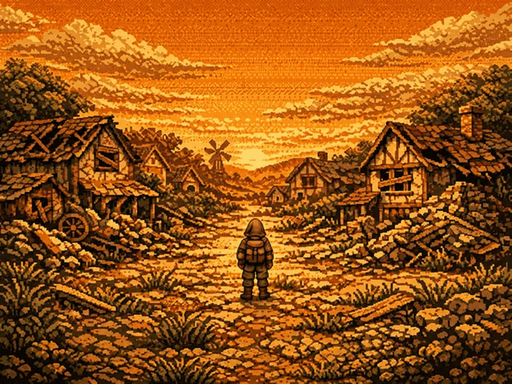
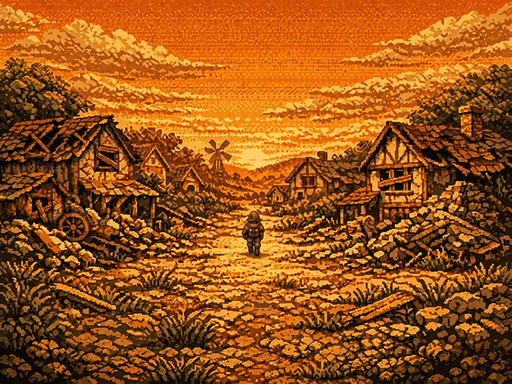
Tune intro camera motion and restore the final scene fade

diff --git a/src/art_thumbs.js b/src/art_thumbs.js
@@ -115,7 +115,7 @@ const ART_THUMBS = {
[8 lines of base64/hex data omitted]
@@ -465,7 +465,7 @@ const ART_TONES = {
   story_wake_frame2: '#663818',
   story_white_dragon_tower: '#846c56',
   story_wrecks: '#985515',
-  story_wrecks_frame2: '#985515',
+  story_wrecks_frame2: '#995415',
   street_bandit: '#b06224',
   street_barricade: '#995022',
   street_burned: '#97531d',
@@ -1092,8 +1092,8 @@ const ART_CUTS = {
   ],
   story_wrecks_frame2: [
[5 lines of base64/hex data omitted]
   ],
   street_bandit: [
[1 lines of base64/hex data omitted]

diff --git a/index.html b/index.html
@@ -1046,28 +1046,27 @@
       position: absolute; inset: 0; opacity: 0;
       animation: story-crossfade 2.4s ease-in-out 750ms forwards;
     }
-    /* Four registered paintings move throughout the camera push. Lower
-       layers reset only after the next painting fully covers them. */
+    /* Progress once through tighter crops. Keep the final painting so a
+       return to the wide first frame cannot undo the camera's push. */
     #story .nightmare-frame {
       position: absolute; inset: 0; opacity: 0;
-      animation: nightmare-frame-two 12s ease-in-out 750ms infinite;
+      transform-origin: 59% 21%;
+      transform: scale(1.05);
+      animation: nightmare-frame-two var(--nightmare-pan-ms, 16s) ease-in-out 750ms both;
     }
-    #story .nightmare-frame:nth-child(3) { animation-name: nightmare-frame-three; }
-    #story .nightmare-frame:nth-child(4) { animation-name: nightmare-frame-four; }
+    #story .nightmare-frame:nth-child(3) { transform: scale(1.10); animation-name: nightmare-frame-three; }
+    #story .nightmare-frame:nth-child(4) { transform: scale(1.15); animation-name: nightmare-frame-four; }
     @keyframes nightmare-frame-two {
       0%, 12.5% { opacity: 0; }
-      25%, 50% { opacity: 1; }
-      50.01%, 100% { opacity: 0; }
+      25%, 100% { opacity: 1; }
     }
     @keyframes nightmare-frame-three {
       0%, 37.5% { opacity: 0; }
-      50%, 75% { opacity: 1; }
-      75.01%, 100% { opacity: 0; }
+      50%, 100% { opacity: 1; }
     }
     @keyframes nightmare-frame-four {
       0%, 62.5% { opacity: 0; }
-      75%, 87.5% { opacity: 1; }
-      100% { opacity: 0; }
+      75%, 100% { opacity: 1; }
     }
     @keyframes story-crossfade {
       from { opacity: 0; }
@@ -1115,11 +1114,11 @@
     }
     @keyframes nightmare-pan {
       from { transform: translate(0, 0) scale(1); }
-      to { transform: translate(0, 5%) scale(2.3); }
+      to { transform: translate(0, 5%) scale(3); }
     }
     #story .wake-camera {
       transform-origin: 50.5% 42.5%;
-      animation: wake-pullback 9s ease-in-out 750ms both;
+      animation: wake-pullback 14s ease-in-out 750ms both;
     }
     /* Reuse the wake paintings for the close pair. The shared camera keeps
        its crop registered while that pair dissolves into the wide pair. */
@@ -1135,7 +1134,7 @@
     }
     @keyframes wake-pullback {
       from { transform: scale(1.75); }
-      to { transform: scale(1); }
+      to { transform: scale(1.25); }
     }
     @media (prefers-reduced-motion: reduce) {
       #story .wake-camera > .story-frames,
@@ -3226,7 +3225,7 @@
   <script src="src/sandbox_art.js?v=ec5360fe"></script>
   <script src="src/testtools.js?v=5767ffd9"></script>
   <script src="src/geo.js?v=c1099b24"></script>
-  <script src="src/art_thumbs.js?v=dfb617d4"></script>
+  <script src="src/art_thumbs.js?v=fad6955c"></script>
   <script src="src/modal_shell.js?v=d88dfa8c"></script>
   <script src="src/scene_geo.js?v=6acf1a1f"></script>
   <script src="src/npc.js?v=a8acecba"></script>

diff --git a/test/node/opening_replay.test.js b/test/node/opening_replay.test.js
@@ -119,8 +119,8 @@ test('opening: four dragon paintings move during the zoom with no late close sho
     'only the first painting describes the dream to screen readers');
   assert.falsy(html.includes('nightmare-close'), 'no separate late close painting');
   const frameRule = html.match(/#story \.nightmare-frame\s*\{([^}]+)\}/)?.[1] || '';
-  assert.truthy(/animation: nightmare-frame-two 12s ease-in-out 750ms infinite/.test(frameRule),
-    'all four paintings cycle before the 16-second push ends, and continue afterward');
+  assert.truthy(/animation: nightmare-frame-two var\(--nightmare-pan-ms, 16s\) ease-in-out 750ms both/.test(frameRule),
+    'painting transitions share the camera duration and hold their final state');
   assert.truthy(html.includes('const STORY_PAN_MS = 16000;'));
   const reduced = html.slice(html.indexOf('@media (prefers-reduced-motion: reduce)', html.indexOf('@keyframes nightmare-pan')));
   assert.truthy(/#story \.nightmare-camera,[^}]*#story \.nightmare-frame:nth-child\(n\),[^}]*animation: none/.test(reduced),

diff --git a/sw.js b/sw.js
@@ -1,7 +1,7 @@
 // Content-addressed resources survive deployments. HTML stays network-first;
 // tiles retain their independent offline cache. Keep two shell generations so
 // old tabs can still request their exact script URLs after a worker update.
-const SHELL_VERSION = 'shell-e46e4b87';
+const SHELL_VERSION = 'shell-76c372b0';
 
 const RESOURCE_CACHE = 'terracart-resources-v1';
 const RESOURCE_MANIFEST = './__terracart_resource_manifest__';
@@ -1055,7 +1055,7 @@ const ASSET_HASHES = {
   "assets/art/story_wake_frame2.webp": "b55f492f",
   "assets/art/story_white_dragon_tower.webp": "c9ebf822",
   "assets/art/story_wrecks.webp": "ddc5d278",
-  "assets/art/story_wrecks_frame2.webp": "ddc5d278",
+  "assets/art/story_wrecks_frame2.webp": "ac032e0a",
   "assets/art/street_bandit.webp": "1cfc0793",
   "assets/art/street_barricade.webp": "d23eb43e",
   "assets/art/street_burned.webp": "f638e5bc",

diff --git a/docs/design/presentation.md b/docs/design/presentation.md
@@ -130,14 +130,17 @@ changing dialogue, story panels, books, toasts or status presentation.
 - The four opening panes show the compass discovery, dragon-war dream,
   house awakening, then the ruined street. Discovery and the street each
   dissolve between two aligned paintings after a brief hold. The dream uses
-  four aligned portrait paintings under one camera. They dissolve in sequence
-  on a 12-second loop during the 16-second push toward the dragon's eye,
-  continuing after the camera stops. Dragons, flames and smoke move between
+  four aligned portrait paintings under one camera. They dissolve once in
+  sequence during the 16-second push toward the dragon's eye. Each successive
+  frame has a tighter crop; the fourth holds after the camera stops, avoiding
+  a pullback to the first frame. Dragons, flames and smoke move between
   frames; painted darkness fades irregularly from below, lingering less over
   bright fire. A soft stationary lower gradient keeps the copy edge dark.
   Awakening uses close and wide views of its existing two paintings, fading
   between pairs while pulling back. Both camera moves begin with a short pause;
-  the dream pushes in slowly and awakening pulls back a little faster.
+  the dream pushes in slowly and awakening makes a shallow 14-second pullback.
+  The street's second painting shows Hood farther along the road; it must remain
+  distinct from the first painting so the final dissolve has visible movement.
   Discovery and the dream are borderless fullscreen panels. Awakening and the
   ruined street use the living-silver compass story sheet, with readable copy
   below the art and immediately available advance buttons. Reduced-motion
@@ -439,10 +442,12 @@ changing dialogue, story panels, books, toasts or status presentation.
   only for the completed transformation. Lighting or relighting a Torch uses
   `torch_light`, a close-up of the flame catching.
 - The opening nightmare pushes toward Tiamat’s red eye over 16 seconds while
-  four aligned paintings cycle continuously. Its irregular painted lower fade
-  preserves bright flames longer; a soft stationary gradient blends the bottom
+  four aligned paintings progress to tighter crops and hold on the fourth.
+  Its irregular painted lower fade preserves bright flames longer; a soft
+  stationary gradient blends the bottom
   into black throughout the zoom. The wake pair pulls back from Hood’s faint
-  eye glints over nine seconds. Reduced motion shows the static first frames.
+  eye glints over 14 seconds, retaining a closer view at the end. Reduced motion
+  shows the static first frames.
 - Paired story paintings must use actual image references. Establish the
   introduction first, then edit that image for the completed action; preserve
   object designs, materials and booth identity. After-use panels zoom in on
